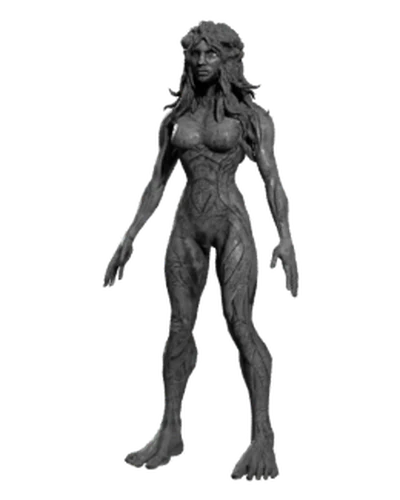
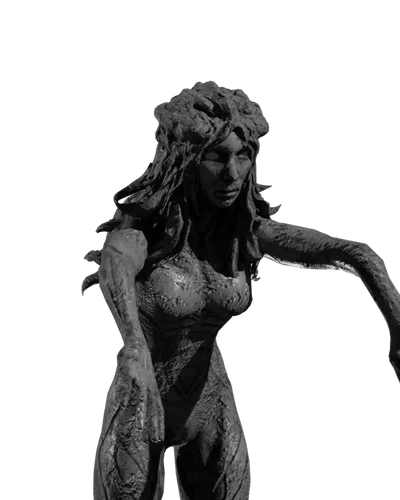
Miniaturas de medio cuerpo en pose característica
Claude-Session: https://claude.ai/code/session_01DSs8Q18PWmrCMULAmMquSw

diff --git a/index.html b/index.html
@@ -67,7 +67,7 @@
   .lamina {
     position: relative;
     display: grid;
-    grid-template-columns: 1fr 42%;
+    grid-template-columns: 1fr 40%;
     align-items: end;
     width: 100%;
     min-height: 13.5rem;
@@ -82,10 +82,15 @@
   .lamina:active { transform: scale(0.99); }
   .lamina img {
     position: absolute;
-    right: -0.5rem; bottom: 0;
-    height: 112%;
+    top: 0; right: 0;
+    height: 100%;
     width: auto;
     pointer-events: none;
+    /* se funde con la lámina por la izquierda y por abajo (medio cuerpo) */
+    -webkit-mask-image: linear-gradient(to right, transparent 0%, #000 28%), linear-gradient(to top, transparent 0%, #000 22%);
+    -webkit-mask-composite: source-in;
+    mask-image: linear-gradient(to right, transparent 0%, #000 28%), linear-gradient(to top, transparent 0%, #000 22%);
+    mask-composite: intersect;
   }
   .lamina .nombre {
     position: relative;
@@ -353,7 +358,6 @@ function abrir(id, desdeHistorial = false) {
   document.getElementById("t-suelo").textContent = actual.altura.toFixed(1).replace(".", ",") + " m";
   document.querySelector('input[value="suelo"]').checked = true;
   visor.alt = `Modelo 3D de ${actual.nombre}`;
-  visor.poster = `img/${actual.id}.webp`;
   visor.src = `modelos/${actual.id}.glb`;
   visor.animationName = "Reposo";
   siguiente = 0;
